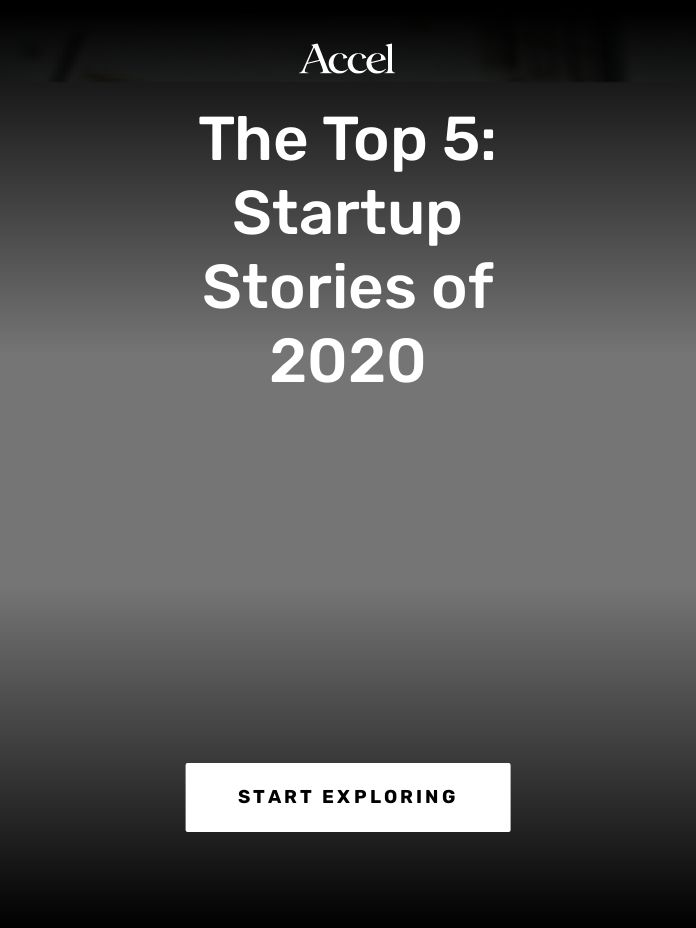
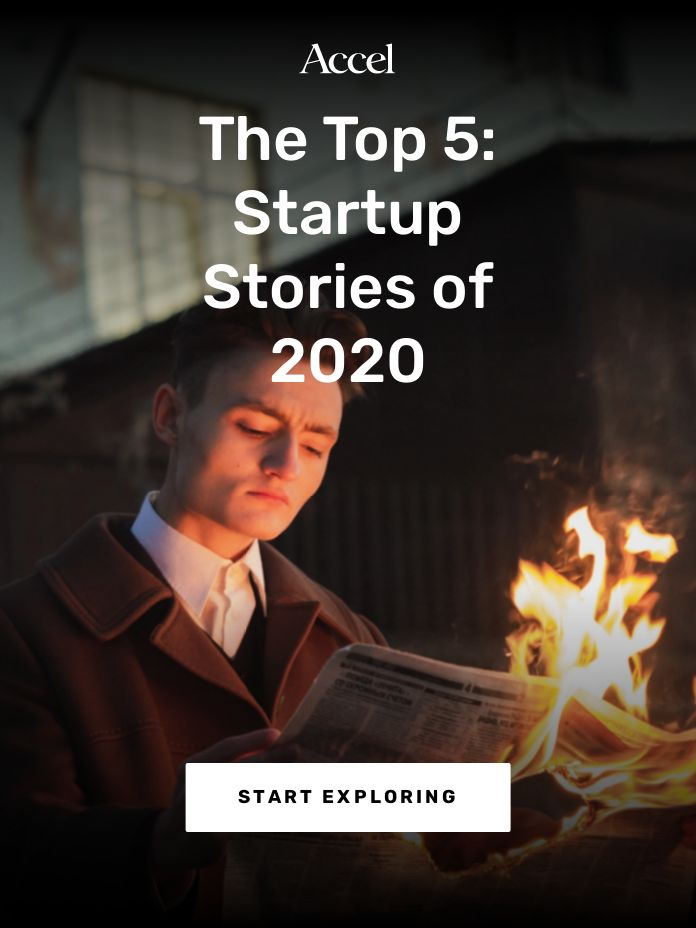
2

diff --git a/index.html b/index.html
@@ -1,1 +1,43 @@
-<!doctype html> <html amp lang="en"> <head> <meta charset="utf-8"> <link href="https://cdn.ampproject.org/v0.js" rel="preload" as="script"> <script async src="https://cdn.ampproject.org/v0.js"></script> <style amp-boilerplate>body{-webkit-animation:-amp-start 8s steps(1,end) 0s 1 normal both;-moz-animation:-amp-start 8s steps(1,end) 0s 1 normal both;-ms-animation:-amp-start 8s steps(1,end) 0s 1 normal both;animation:-amp-start 8s steps(1,end) 0s 1 normal both}@-webkit-keyframes -amp-start{from{visibility:hidden}to{visibility:visible}}@-moz-keyframes -amp-start{from{visibility:hidden}to{visibility:visible}}@-ms-keyframes -amp-start{from{visibility:hidden}to{visibility:visible}}@-o-keyframes -amp-start{from{visibility:hidden}to{visibility:visible}}@keyframes -amp-start{from{visibility:hidden}to{visibility:visible}}</style><noscript><style amp-boilerplate>body{-webkit-animation:none;-moz-animation:none;-ms-animation:none;animation:none}</style></noscript> <meta name="viewport" content="width=device-width,minimum-scale=1,initial-scale=1"> <meta name="amp-story-generator-name" content="MakeStories"> <meta name="amp-story-generator-version" content="2.0"> <title>STS Webstory</title> <script async custom-element="amp-story" src="https://cdn.ampproject.org/v0/amp-story-1.0.js"></script> <link rel="shortcut icon" href="https://app.makestories.io/images/favicon.png" type="image/x-icon"> <script type="application/ld+json">{"@context":"https://schema.org","@type":"","mainEntityOfPage":{"@type":"WebPage","@id":"www.seedtoscale.com"}}</script> <meta property="og:url" content="www.seedtoscale.com"> <meta property="title" content="STS Webstory"> <meta property="og:title" content="STS Webstory"> <meta property="twitter:title" content="STS Webstory"> <meta name="twitter:card" content="summary"> <link rel="canonical" href="www.seedtoscale.com"> <style amp-custom>.ylmqjbzphz[active] amp-img.pbauxcs>img{animation:bg-zoom-in 10s linear forwards}.pbauxcsp amp-img.pbauxcs>img{max-width:unset;max-height:unset;margin:0;height:100%;left:0;object-fit:cover;top:0;width:100%}.scrim#ovjig{background:no-repeat linear-gradient(0deg,rgba(0,0,0,1) 0,rgba(0,0,0,0) 36.875%,rgba(255,255,255,0) 61.875%,rgba(0,0,0,1) 98.75%)}.snklo{color:#fff;font-family:Rubik;font-size:3.56em;font-weight:500;left:15.28%;letter-spacing:0;line-height:1.2em;text-align:center;top:11%;width:69.44%}.cxyck{background:#fff;border-radius:2px;color:#000;font-family:Rubik;font-size:1.07em;font-weight:700;left:20.83%;letter-spacing:.17em;line-height:1.8em;padding:18px 0 18px 0;text-align:center;text-transform:uppercase;top:82.17%;width:58.33%}.ksogl{height:3.33%;left:41.11%;top:4.67%;width:17.5%}amp-img{position:relative}.content-block{padding:10px 15px}.block{position:relative;padding:5px;word-break:break-word}.content-block amp-video{display:block;margin:0 auto}.content-block>hr{padding:0;margin:5px 0;border-top:1px solid #eee}.block a:not(.cta-a){color:inherit;text-decoration:none}h1,h2,h3,h4,h5,h6,p{padding:0;margin:0}.cta-a{text-decoration:none;display:flex;align-items:center}.cta-a span{width:100%}.svg-el svg{display:block;width:100%;height:100%}.block .cta-a{padding:.3em 1em;display:inline-block}*{-webkit-box-sizing:border-box;-moz-box-sizing:border-box;box-sizing:border-box}.cta-a amp-img{width:100%;height:100%}.cta-a amp-img img{height:100%;width:100%;min-height:unset}.flip-vertically img,.flip-vertically svg{transform:rotateY(180deg)}.flip-horizontally img,.flip-horizontally svg{transform:rotateX(180deg)}.flip-horizontally.flip-vertically img,.flip-horizontally.flip-vertically svg{transform:rotateX(180deg) rotateY(180deg)}.pa{position:absolute;word-break:break-word}.txt-hl{-webkit-box-decoration-break:clone;-o-box-decoration-break:clone;box-decoration-break:clone}.img-fill,a.story-tooltip{top:0;left:0;width:100%;height:100%;font-size:inherit;font-weight:inherit}a.story-tooltip{text-decoration:none;color:inherit}.offset{transform:translateX(-50%) translateY(-50%)}.oh{overflow:hidden}.pa.kbimg{width:0;height:0}.pa-list-type{padding:5px;padding-left:19px;margin:5px 0 0 0}ol.pa-list-type{list-style:lower-alpha}.block .pa-list-type li a{color:#1890ff}amp-story{font-size:3.125vw}@media screen and (min-aspect-ratio:3/5) and (max-aspect-ratio:5/5){amp-story{font-size:1.875vh}.letterbox{width:60vh;height:100vh;position:absolute;top:50%;left:50%;transform:translate(-50%,-50%)}amp-story-cta-layer .letterbox{height:20vh}}@media screen and (min-width:1024px){amp-story{font-size:1.8vh}}@media screen and (min-width:1024px) and (max-height:660px){amp-story{font-size:1.8vh}}::cue{background-color:rgba(0,0,0,.75);font-size:24px;line-height:1.5}@keyframes bg-zoom-in{0%{transform:scale(1)}100%{transform:scale(1.2)}}</style> <link rel="stylesheet" href="https://fonts.googleapis.com/css?display=swap&family=Rubik:400,500,700" media="all"> </head> <body> <amp-story standalone poster-portrait-src="https://ss.makestories.io/get?story=-M_RVrJYRbWjw2q8lVKg&version=1620755275251&width=696&height=928" publisher-logo-src="https://app.makestories.io/images/favicon.png" publisher="Accel webstory" title="STS Webstory"> <amp-story-page id="ylmqjbzphz" class="ylmqjbzphz ms-st-pg"> <amp-story-grid-layer template="fill" class="pbauxcsp"> <amp-img width="720" height="1280" layout="responsive" class="pbauxcs" id="ylmqjbzphz-bg" src="assets/1.png" alt="Background Image"></amp-img> </amp-story-grid-layer> <amp-story-grid-layer template="vertical" id="ovjig" class="scrim"><div class="letterbox"> <h3 class="snklo pa" animate-in="fade-in" animate-in-duration="500ms" id="eezhyfdsol">The Top 5: Startup Stories of 2020</h3> <h5 class="cxyck pa" animate-in="fly-in-bottom" animate-in-duration="500ms" animate-in-after="eezhyfdsol" id="yizlrdhgbz">Start exploring</h5> <div class="ksogl pa svg-el" id="dhpwqmtwex"><amp-img width="63.00000000000008px" height="20.000000000000025px" layout="responsive" src="https://us-central1-makestories-202705.cloudfunctions.net/getAsset?storyId=-M_RVrJYRbWjw2q8lVKg&pageId=0&layerId=0&id=dhpwqmtwex&" alt=""></amp-img></div> </div></amp-story-grid-layer> </amp-story-page> <amp-story-bookend src="www.seedtoscale.com/bookend.json" layout="nodisplay"></amp-story-bookend> </amp-story> </body> </html>
+<!doctype html> <html amp lang="en"> <head> <meta charset="utf-8"> <link href="https://cdn.ampproject.org/v0.js" rel="preload" as="script"> <script async src="https://cdn.ampproject.org/v0.js"></script> <style amp-boilerplate>body{-webkit-animation:-amp-start 8s steps(1,end) 0s 1 normal both;-moz-animation:-amp-start 8s steps(1,end) 0s 1 normal both;-ms-animation:-amp-start 8s steps(1,end) 0s 1 normal both;animation:-amp-start 8s steps(1,end) 0s 1 normal both}@-webkit-keyframes -amp-start{from{visibility:hidden}to{visibility:visible}}@-moz-keyframes -amp-start{from{visibility:hidden}to{visibility:visible}}@-ms-keyframes -amp-start{from{visibility:hidden}to{visibility:visible}}@-o-keyframes -amp-start{from{visibility:hidden}to{visibility:visible}}@keyframes -amp-start{from{visibility:hidden}to{visibility:visible}}</style><noscript><style amp-boilerplate>body{-webkit-animation:none;-moz-animation:none;-ms-animation:none;animation:none}</style></noscript> <meta name="viewport" content="width=device-width,minimum-scale=1,initial-scale=1"> <meta name="amp-story-generator-name" content="MakeStories"> <meta name="amp-story-generator-version" content="2.0"> <script async custom-element="amp-analytics" src="https://cdn.ampproject.org/v0/amp-analytics-0.1.js"></script> <title>STS Webstory</title> <script async custom-element="amp-story" src="https://cdn.ampproject.org/v0/amp-story-1.0.js"></script> <link rel="shortcut icon" href="https://app.makestories.io/images/favicon.png" type="image/x-icon"> <script type="application/ld+json">{"@context":"https://schema.org","@type":"","mainEntityOfPage":{"@type":"WebPage","@id":"www.seedtoscale.com"}}</script> <meta property="og:url" content="www.seedtoscale.com"> <meta property="title" content="STS Webstory"> <meta property="og:title" content="STS Webstory"> <meta property="twitter:title" content="STS Webstory"> <meta name="twitter:card" content="summary"> <link rel="canonical" href="www.seedtoscale.com"> <style amp-custom>.ylmqjbzphz[active] amp-img.pbnxhej>img{animation:bg-zoom-in 10s linear forwards}.pbnxhejp amp-img.pbnxhej>img{max-width:unset;max-height:unset;margin:0;height:100%;left:0;object-fit:cover;top:0;width:100%}.scrim#beraq{background:no-repeat linear-gradient(0deg,rgba(0,0,0,1) 0,rgba(0,0,0,0) 36.875%,rgba(255,255,255,0) 61.875%,rgba(0,0,0,1) 98.75%)}.epwnk{color:#fff;font-family:Rubik;font-size:3.56em;font-weight:500;left:15.28%;letter-spacing:0;line-height:1.2em;text-align:center;top:11%;width:69.44%}.tilco{background:#fff;border-radius:2px;color:#000;font-family:Rubik;font-size:1.07em;font-weight:700;left:20.83%;letter-spacing:.17em;line-height:1.8em;padding:18px 0 18px 0;text-align:center;text-transform:uppercase;top:82.17%;width:58.33%}.qmpwq{height:3.33%;left:41.11%;top:4.67%;width:17.5%}.pbvzzad{background:#fff}.apcge{color:#333;font-family:Roboto;font-size:1.42em;font-weight:500;left:8.33%;line-height:1.4em;text-align:center;top:35.67%;width:83.33%}.ppsxm{height:9.33%;left:22.22%;top:9.83%;width:55.56%}amp-img{position:relative}.content-block{padding:10px 15px}.block{position:relative;padding:5px;word-break:break-word}.content-block amp-video{display:block;margin:0 auto}.content-block>hr{padding:0;margin:5px 0;border-top:1px solid #eee}.block a:not(.cta-a){color:inherit;text-decoration:none}h1,h2,h3,h4,h5,h6,p{padding:0;margin:0}.cta-a{text-decoration:none;display:flex;align-items:center}.cta-a span{width:100%}.svg-el svg{display:block;width:100%;height:100%}.block .cta-a{padding:.3em 1em;display:inline-block}*{-webkit-box-sizing:border-box;-moz-box-sizing:border-box;box-sizing:border-box}.cta-a amp-img{width:100%;height:100%}.cta-a amp-img img{height:100%;width:100%;min-height:unset}.flip-vertically img,.flip-vertically svg{transform:rotateY(180deg)}.flip-horizontally img,.flip-horizontally svg{transform:rotateX(180deg)}.flip-horizontally.flip-vertically img,.flip-horizontally.flip-vertically svg{transform:rotateX(180deg) rotateY(180deg)}.pa{position:absolute;word-break:break-word}.txt-hl{-webkit-box-decoration-break:clone;-o-box-decoration-break:clone;box-decoration-break:clone}.img-fill,a.story-tooltip{top:0;left:0;width:100%;height:100%;font-size:inherit;font-weight:inherit}a.story-tooltip{text-decoration:none;color:inherit}.offset{transform:translateX(-50%) translateY(-50%)}.oh{overflow:hidden}.pa.kbimg{width:0;height:0}.pa-list-type{padding:5px;padding-left:19px;margin:5px 0 0 0}ol.pa-list-type{list-style:lower-alpha}.block .pa-list-type li a{color:#1890ff}amp-story{font-size:3.125vw}@media screen and (min-aspect-ratio:3/5) and (max-aspect-ratio:5/5){amp-story{font-size:1.875vh}.letterbox{width:60vh;height:100vh;position:absolute;top:50%;left:50%;transform:translate(-50%,-50%)}amp-story-cta-layer .letterbox{height:20vh}}@media screen and (min-width:1024px){amp-story{font-size:1.8vh}}@media screen and (min-width:1024px) and (max-height:660px){amp-story{font-size:1.8vh}}::cue{background-color:rgba(0,0,0,.75);font-size:24px;line-height:1.5}@keyframes bg-zoom-in{0%{transform:scale(1)}100%{transform:scale(1.2)}}</style> <link rel="stylesheet" href="https://fonts.googleapis.com/css?display=swap&family=Rubik:400,500,700|Roboto:400,500" media="all"> </head> <body> <amp-story standalone poster-portrait-src="https://ss.makestories.io/get?story=-M_RVrJYRbWjw2q8lVKg&version=1620908097178&width=696&height=928" publisher-logo-src="https://app.makestories.io/images/favicon.png" publisher="Accel webstory" title="STS Webstory"> <amp-story-page id="ylmqjbzphz" class="ylmqjbzphz ms-st-pg"> <amp-story-grid-layer template="fill" class="pbnxhejp"> <amp-img width="720" height="1280" layout="responsive" class="pbnxhej" id="ylmqjbzphz-bg" src="assets/1.png" alt="Background Image"></amp-img> </amp-story-grid-layer> <amp-story-grid-layer template="vertical" id="beraq" class="scrim"><div class="letterbox"> <h3 class="epwnk pa" animate-in="fade-in" animate-in-duration="500ms" id="eezhyfdsol">The Top 5: Startup Stories of 2020</h3> <h5 class="tilco pa" animate-in="fly-in-bottom" animate-in-duration="500ms" animate-in-after="eezhyfdsol" id="yizlrdhgbz">Start exploring</h5> <div class="qmpwq pa svg-el" id="dhpwqmtwex"><amp-img width="63.00000000000008px" height="20.000000000000025px" layout="responsive" src="https://us-central1-makestories-202705.cloudfunctions.net/getAsset?storyId=-M_RVrJYRbWjw2q8lVKg&pageId=0&layerId=0&id=dhpwqmtwex&" alt=""></amp-img></div> </div></amp-story-grid-layer> </amp-story-page> <amp-story-page id="gglxyphjkz" class="gglxyphjkz ms-st-pg"> <amp-story-grid-layer template="fill" class="pbvzzadp"> <div class="pbvzzad"></div> </amp-story-grid-layer> <amp-story-grid-layer template="vertical" id="zhzun"><div class="letterbox"> <p class="apcge pa" id="ynuiihvdiy">This is page 2<br>This is here for analytics.</p> <div class="ppsxm pa svg-el" id="xcxgiyptjx"><amp-img width="200" height="56" layout="responsive" src="https://us-central1-makestories-202705.cloudfunctions.net/getAsset?storyId=-M_RVrJYRbWjw2q8lVKg&pageId=1&layerId=0&id=xcxgiyptjx&" alt=""></amp-img></div> </div></amp-story-grid-layer> </amp-story-page> <amp-analytics type="gtag" data-credentials="include"> <script type="application/json"> {
+        "vars": {
+            "gtag_id": "UA-176162435-1",
+            "config":{
+                "UA-176162435-1":{
+                    "groups":"default"
+                }
+            }
+        },
+        "triggers": {
+            "storyProgress": {
+                "on": "story-page-visible",
+                "vars": {
+                    "event_name": "custom",
+                    "event_action": "story_progress",
+                    "event_category": "${title}",
+                    "event_label": "${storyPageId}",
+                    "send_to": ["UA-176162435-1"]
+                }
+            },
+            "storyEnd": {
+                "on": "story-last-page-visible",
+                "vars": {
+                    "event_name": "custom",
+                    "event_action": "story_complete",
+                    "event_category": "${title}",
+                    "send_to": ["UA-176162435-1"]
+                }
+            },
+            "anchorClicks": {
+                "on": "click",
+                "request": "pageview",
+                "selector": "a.cta-a",
+                "vars": {
+                    "event_name": "custom",
+                    "event_action": "cta_clicked",
+                    "event_category": "${title}",
+                    "event_label": "${ctalink}",
+                    "send_to": ["UA-176162435-1"]
+                }
+            }
+        }
+    } </script> </amp-analytics> <amp-story-bookend src="www.seedtoscale.com/bookend.json" layout="nodisplay"></amp-story-bookend> </amp-story> </body> </html>

diff --git a/unminified.html b/unminified.html
@@ -10,6 +10,7 @@
    <meta name="amp-story-generator-version" content="2.0" />
 
 
+   <script async custom-element='amp-analytics' src='https://cdn.ampproject.org/v0/amp-analytics-0.1.js'></script>
 
    <title>STS Webstory</title>
    <script async custom-element="amp-story" src="https://cdn.ampproject.org/v0/amp-story-1.0.js"></script>
@@ -31,10 +32,10 @@
    
 
    
-   .ylmqjbzphz[active] amp-img.pbauxcs > img{
+   .ylmqjbzphz[active] amp-img.pbnxhej > img{
       animation : bg-zoom-in 10000ms linear forwards ;
    }
-   .pbauxcsp amp-img.pbauxcs > img{
+   .pbnxhejp amp-img.pbnxhej > img{
       max-width : unset;
       max-height : unset;
       margin : 0;
@@ -44,10 +45,10 @@
       top : 0.00%;
       width : 100%;
    }
-   .scrim#ovjig{
+   .scrim#beraq{
       background : no-repeat linear-gradient(0deg, rgba(0,0,0,1) 0%, rgba(0,0,0,0) 36.875%, rgba(255,255,255,0) 61.875%, rgba(0,0,0,1) 98.75%);
    }
-   .snklo{
+   .epwnk{
       color : #fff;
       font-family : Rubik;
       font-size : 3.56em;
@@ -59,7 +60,7 @@
       top : 11.00%;
       width : 69.44%;
    }
-   .cxyck{
+   .tilco{
       background : #fff;
       border-radius : 2px;
       color : #000;
@@ -75,11 +76,31 @@
       top : 82.17%;
       width : 58.33%;
    }
-   .ksogl{
+   .qmpwq{
       height : 3.33%;
       left : 41.11%;
       top : 4.67%;
       width : 17.50%;
+   }
+   .pbvzzad{
+      background : rgb(255,255,255);
+   }
+   .apcge{
+      color : rgb(51, 51, 51);
+      font-family : Roboto;
+      font-size : 1.42em;
+      font-weight : 500;
+      left : 8.33%;
+      line-height : 1.4em;
+      text-align : center;
+      top : 35.67%;
+      width : 83.33%;
+   }
+   .ppsxm{
+      height : 9.33%;
+      left : 22.22%;
+      top : 9.83%;
+      width : 55.56%;
    }
    amp-img{ position: relative }
    .content-block{ padding: 10px 15px }
@@ -212,35 +233,101 @@
                                 }
    </style>
 
-   <link rel="stylesheet" href="https://fonts.googleapis.com/css?display=swap&family=Rubik:400,500,700" media="all">
+   <link rel="stylesheet" href="https://fonts.googleapis.com/css?display=swap&family=Rubik:400,500,700|Roboto:400,500" media="all">
 
 </head>
 <body>
     
-   <amp-story standalone poster-portrait-src="https://ss.makestories.io/get?story=-M_RVrJYRbWjw2q8lVKg&version=1620755275251&width=696&height=928" publisher-logo-src="https://app.makestories.io/images/favicon.png" publisher="Accel webstory" title="STS Webstory"    >
+   <amp-story standalone poster-portrait-src="https://ss.makestories.io/get?story=-M_RVrJYRbWjw2q8lVKg&version=1620908097178&width=696&height=928" publisher-logo-src="https://app.makestories.io/images/favicon.png" publisher="Accel webstory" title="STS Webstory"    >
 
       <!-- PAGE 1 STARTS HERE -->
       <amp-story-page id="ylmqjbzphz" class="ylmqjbzphz ms-st-pg"  >
          <!-- PAGE BACKGROUND LAYER (ylmqjbzphz) -->
-         <amp-story-grid-layer template="fill" class="pbauxcsp">
-            <amp-img width='720' height='1280' layout='responsive' class='pbauxcs' id='ylmqjbzphz-bg' src='assets/1.png' alt='Background Image' ></amp-img>
+         <amp-story-grid-layer template="fill" class="pbnxhejp">
+            <amp-img width='720' height='1280' layout='responsive' class='pbnxhej' id='ylmqjbzphz-bg' src='assets/1.png' alt='Background Image' ></amp-img>
          </amp-story-grid-layer>
          <!-- PAGE BACKGROUND LAYER (ylmqjbzphz) ENDS -->
-         <amp-story-grid-layer template="vertical" id="ovjig" class="scrim"><div class="letterbox">
+         <amp-story-grid-layer template="vertical" id="beraq" class="scrim"><div class="letterbox">
             <!-- Heading 3 STARTS HERE -->
-            <h3 class='snklo pa' animate-in='fade-in' animate-in-duration='500ms' id='eezhyfdsol' >The Top 5: Startup Stories of 2020</h3>
+            <h3 class='epwnk pa' animate-in='fade-in' animate-in-duration='500ms' id='eezhyfdsol' >The Top 5: Startup Stories of 2020</h3>
             <!-- Heading 3 ENDS HERE -->
             <!-- Heading 5 STARTS HERE -->
-            <h5 class='cxyck pa' animate-in='fly-in-bottom' animate-in-duration='500ms' animate-in-after='eezhyfdsol' id='yizlrdhgbz' >Start exploring</h5>
+            <h5 class='tilco pa' animate-in='fly-in-bottom' animate-in-duration='500ms' animate-in-after='eezhyfdsol' id='yizlrdhgbz' >Start exploring</h5>
             <!-- Heading 5 ENDS HERE -->
             <!-- svg_1 STARTS HERE -->
-            <div class='ksogl pa svg-el' id='dhpwqmtwex' ><amp-img width='63.00000000000008px' height='20.000000000000025px' layout='responsive' src='https://us-central1-makestories-202705.cloudfunctions.net/getAsset?storyId=-M_RVrJYRbWjw2q8lVKg&pageId=0&layerId=0&id=dhpwqmtwex&' alt='' ></amp-img></div>
+            <div class='qmpwq pa svg-el' id='dhpwqmtwex' ><amp-img width='63.00000000000008px' height='20.000000000000025px' layout='responsive' src='https://us-central1-makestories-202705.cloudfunctions.net/getAsset?storyId=-M_RVrJYRbWjw2q8lVKg&pageId=0&layerId=0&id=dhpwqmtwex&' alt='' ></amp-img></div>
             <!-- svg_1 ENDS HERE -->
          </div></amp-story-grid-layer>
       
       </amp-story-page>
       <!-- PAGE 1 ENDS HERE -->
       
+      <!-- PAGE 2 STARTS HERE -->
+      <amp-story-page id="gglxyphjkz" class="gglxyphjkz ms-st-pg"  >
+         <!-- PAGE BACKGROUND LAYER (gglxyphjkz) -->
+         <amp-story-grid-layer template="fill" class="pbvzzadp">
+            <div class="pbvzzad"></div>
+         </amp-story-grid-layer>
+         <!-- PAGE BACKGROUND LAYER (gglxyphjkz) ENDS -->
+         <amp-story-grid-layer template="vertical" id="zhzun" ><div class="letterbox">
+            <!-- Your Page! STARTS HERE -->
+            <p class='apcge pa' id='ynuiihvdiy' >This is page 2<br>This is here for analytics.</p>
+            <!-- Your Page! ENDS HERE -->
+            <!-- svg_1 STARTS HERE -->
+            <div class='ppsxm pa svg-el' id='xcxgiyptjx' ><amp-img width='200' height='56' layout='responsive' src='https://us-central1-makestories-202705.cloudfunctions.net/getAsset?storyId=-M_RVrJYRbWjw2q8lVKg&pageId=1&layerId=0&id=xcxgiyptjx&' alt='' ></amp-img></div>
+            <!-- svg_1 ENDS HERE -->
+         </div></amp-story-grid-layer>
+      
+      </amp-story-page>
+      <!-- PAGE 2 ENDS HERE -->
+      
+      <amp-analytics type="gtag" data-credentials="include">
+    <script type="application/json">
+    {
+        "vars": {
+            "gtag_id": "UA-176162435-1",
+            "config":{
+                "UA-176162435-1":{
+                    "groups":"default"
+                }
+            }
+        },
+        "triggers": {
+            "storyProgress": {
+                "on": "story-page-visible",
+                "vars": {
+                    "event_name": "custom",
+                    "event_action": "story_progress",
+                    "event_category": "${title}",
+                    "event_label": "${storyPageId}",
+                    "send_to": ["UA-176162435-1"]
+                }
+            },
+            "storyEnd": {
+                "on": "story-last-page-visible",
+                "vars": {
+                    "event_name": "custom",
+                    "event_action": "story_complete",
+                    "event_category": "${title}",
+                    "send_to": ["UA-176162435-1"]
+                }
+            },
+            "anchorClicks": {
+                "on": "click",
+                "request": "pageview",
+                "selector": "a.cta-a",
+                "vars": {
+                    "event_name": "custom",
+                    "event_action": "cta_clicked",
+                    "event_category": "${title}",
+                    "event_label": "${ctalink}",
+                    "send_to": ["UA-176162435-1"]
+                }
+            }
+        }
+    }
+    </script>
+    </amp-analytics>
       <amp-story-bookend src="www.seedtoscale.com/bookend.json" layout="nodisplay"></amp-story-bookend>    
    </amp-story>
 
